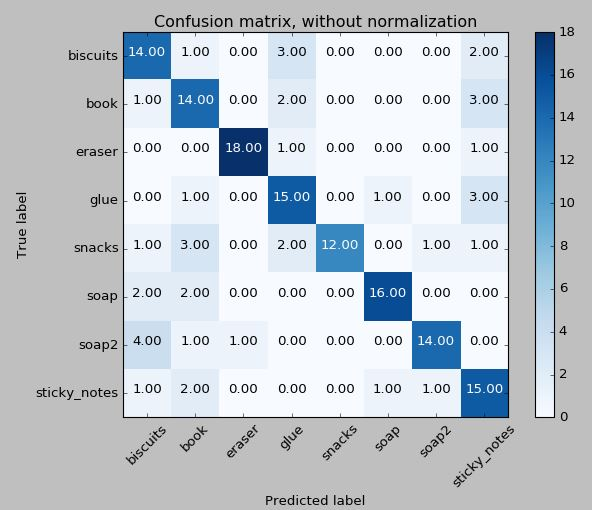
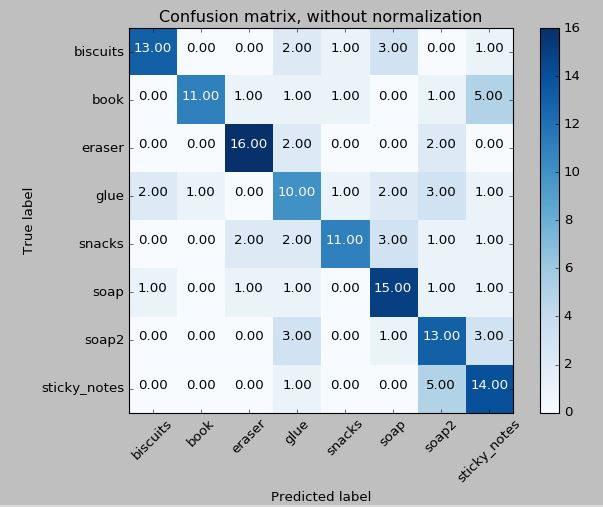
updates

diff --git a/writeup_template.md b/writeup_template.md
@@ -232,9 +232,9 @@ def compute_normal_histograms(normal_cloud):
         norm_z_vals.append(norm_component[2])
 
     # TODO: Compute histograms of normal values (just like with color)
-    norm_x_hist = np.histogram(norm_x_vals, bins=32, range=(0, 256))
-    norm_y_hist = np.histogram(norm_y_vals, bins=32, range=(0, 256))
-    norm_z_hist = np.histogram(norm_z_vals, bins=32, range=(0, 256))
+    norm_x_hist = np.histogram(norm_x_vals, bins=32, range=(-1, 1))
+    norm_y_hist = np.histogram(norm_y_vals, bins=32, range=(-1, 1))
+    norm_z_hist = np.histogram(norm_z_vals, bins=32, range=(-1, 1))
     # TODO: Concatenate and normalize the histograms
 
     hist_features = np.concatenate((norm_x_hist[0], norm_y_hist[0], norm_z_hist[0])).astype(np.float64)
@@ -249,8 +249,7 @@ The following two images are the confusion matrices generated from the classifie
 predict 20 instances of each of the 8 objects. The first one is not normalized and shows how many times of 20 
 the trained classifier accurately predicts the correct label. The second image is the same thing but normalized
 and shows the percentage of images accurately classified. The eraser is most accurately
-predicted at 90% and the snacks are least accurately predicted at 60%. Overall,
-the classification on average is 73.75% accurate. 
+predicted at 80% and the glue is least accurately predicted at 50%. 
 
 ![alt text][image7]
 
